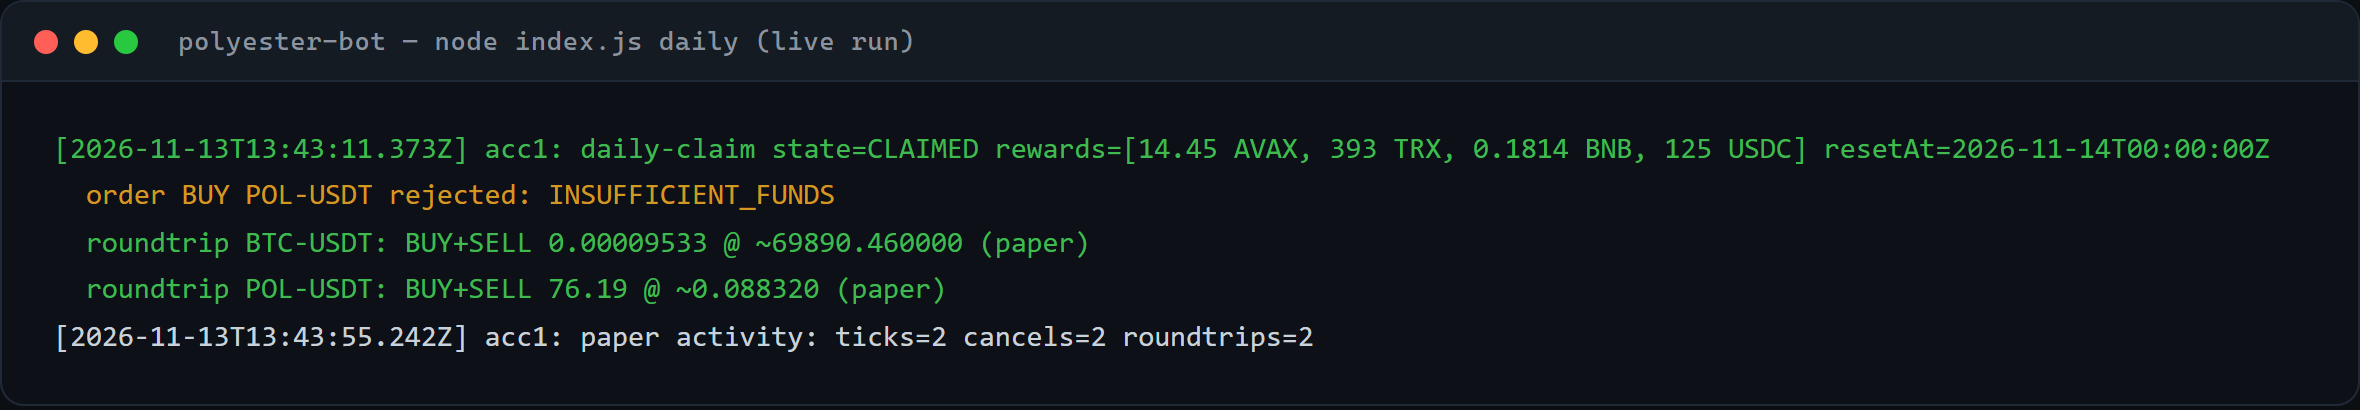
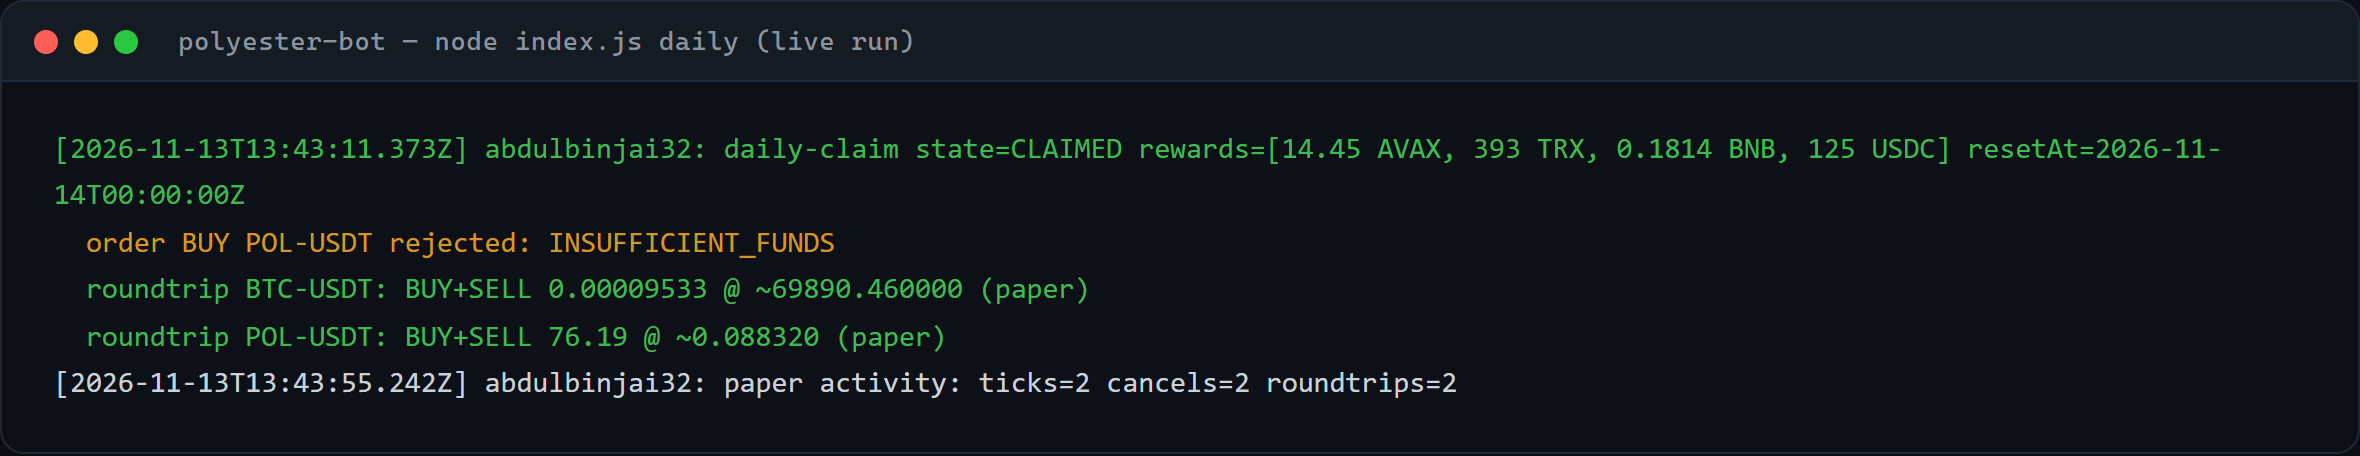
docs: showcase README polyester-bot v1.1.1 (README + screenshot saja)

diff --git a/README.md b/README.md
@@ -1,103 +1,153 @@
-# polyester-bot
+# Polyester Bot - Daily Paper Assets Claim
 
-Daily automation for **Polyester Testnet DEX** (https://testnet.polyester.com).
-Claims free **Paper Assets** for every account each day (00:00 UTC reset) and runs a
-small randomized paper-trading activity engine so account history looks organic —
-volume, trades, order counts and daily streaks are exactly what season checkpoints
-and potential retro rewards measure.
+**Versi:** 1.1.1 · **Harga:** Rp 80.000 (~$5) · **Kontak pembelian:** [@rmndkyl](https://t.me/rmndkyl)
 
-Pure signed HTTP API (Ed25519) — **no browser needed for the daily routine**.
+Bot automasi harian untuk **Polyester Testnet DEX** (https://testnet.polyester.com). Klaim **Paper Assets** tiap akun setiap hari (reset 00:00 UTC) + opsional aktivitas trading paper (pasang order lalu batalkan) supaya riwayat akun terlihat hidup untuk kepenting kompetisi & potensi airdrop retroaktif.
 
-## Features
+## Kebutuhan
 
-- Daily multi-account claim: `GET /v1/trading/daily-claim` → `POST .../claim`
-- Paper activity engine (v1.1), built into `daily`:
-  - Post-only limit ticks — resting buys below / sells above the book, cancelled a
-    few seconds later. Never execute, zero risk, build order/cancel history.
-  - Market IOC round trips — small BUY→SELL flips ($6–12) that produce real prints,
-    fees and volume for checkpoint metrics. Balance floor guard included.
-  - Auto-selects pairs the account can actually quote; sweeps leftover orders from
-    crashed runs; never touches orders you placed manually.
-- Humanization: shuffled account order, random 25–80s gaps, small daily skip chance
-- Retry + backoff on transport/5xx; auth errors are never hammered
-- Official Ed25519 signing spec (canonical string, RFC 3986 query normalization,
-  SHA-256 body hash) — zero external dependencies
-- Reports: `data/last-run.json` (machine) + `data/last-run.txt`
-- Offline signer selftest: `node index.js selftest`
+| Item | Detail |
+|---|---|
+| Runtime | Node.js 18+ |
+| Wallet | EVM / sesuai chain proyek (kamu sendiri) |
+| Proxy | tidak perlu |
+| Captcha | tidak perlu |
+| Akses | akun proyek yang kamu kelola sendiri |
 
-## Requirements
+## Pembayaran
 
-| Requirement          | Required | Notes                                                              |
-| -------------------- | -------- | ------------------------------------------------------------------ |
-| Node.js ≥ 22         | Yes      | no npm packages (0 dependencies)                                   |
-| Polyester account    | Yes      | register in Chrome (Google/email or wallet, gasless)               |
-| X **or** Discord     | Yes      | one must be linked in profile or claims fail                       |
-| Main-account API key | Yes      | `ak_...` id + 64-hex Ed25519 secret, created once in browser       |
-| Key policies         | Yes      | Daily Claims (read + claim) + Spot Trading                         |
-| Capital              | No       | testnet, paper assets, no gas                                      |
+E-Wallet: DANA / GoPay / ShopeePay · Bank: BCA / Seabank · Crypto: contact for wallet address.
+Pembeli menghubungi [@rmndkyl](https://t.me/rmndkyl), kirim bukti transfer, lalu terima license key.
 
-## Setup (one-time per account, ~3 min in the browser)
+---
 
-1. Open https://testnet.polyester.com in a normal Chrome window (Cloudflare check — just click).
-2. **Connect** → sign up with Google/email or a wallet → pick a username.
-3. In your profile, link **X** or **Discord** (either is enough).
-4. Go to https://testnet.polyester.com/account/api-keys → **New key** → *Generate in browser*.
-   Copy the **Key ID** (`ak_...`) and the **64-hex private key** (shown only once!).
-5. On the new key, attach policies: **Daily Claims (read + claim)** and **Spot Trading**.
-6. Copy `config.json.example` → `config.json`, fill in per account:
+Bot automasi harian untuk **Polyester Testnet DEX** (https://testnet.polyester.com).
+Klaim **Paper Assets** tiap akun setiap hari (reset 00:00 UTC) + opsional aktivitas
+trading paper (pasang order lalu batalkan) supaya riwayat akun terlihat hidup untuk
+kepenting kompetisi & potensi airdrop retroaktif.
+
+Murni HTTP API (Ed25519 signed request) — **tanpa browser untuk rutinitas harian**.
+
+## Fitur
+
+- Klaim harian multi-akun: `GET /v1/trading/daily-claim` → `POST .../claim` otomatis
+- **Aktivitas trading paper (v1.1)** — built-in di `daily`, untuk metrik checkpoint musim
+  (volume, trades, orders, streak) yang dipakai kompetisi & potensi retroaktif:
+  - Post-only limit ticks: order BUY di bawah / SELL di atas buku order → resting →
+    dibatalkan setelah beberapa detik (tidak pernah tereksekusi, jadi tidak ada risiko)
+  - Market IOC round-trip: BUY → tahan sebentar → SELL → menghasilkan riwayat trade + fee
+    nyata, ukuran kecil ($6-12 paper/acak), guard: saldo USDT di bawah floor = skip
+  - Auto-pilih pair yang saldonya cukup (tidak spam INSUFFICIENT_FUNDS), sweep order
+    sisa dari run yang crash (clientOrderId prefix `lyid-`), tidak pernah menyentuh
+    order buatan manual kamu
+- Humanisasi: urutan akun diacak, jeda acak 25–80 detik antar akun, peluang skip harian
+- Retry + backoff untuk error transport/5xx; error auth (401/403) tidak di-hammer
+- Tanda tangan request Ed25519 sesuai spesifikasi resmi (canonical string 5–6 baris,
+  normalisasi query RFC 3986, hash body SHA-256) — tanpa dependency eksternal
+- Laporan `data/last-run.json` (machine) + `data/last-run.txt` (kartu screenshot)
+- Selftest signer offline: `node index.js selftest`
+
+## Kebutuhan
+
+| Kebutuhan            | Wajib? | Keterangan                                                        |
+| -------------------- | ------ | ----------------------------------------------------------------- |
+| Node.js ≥ 22         | Ya     | Tidak ada package npm (0 dependency)                              |
+| Akun Polyester       | Ya     | Daftar via Chrome: Google/email atau wallet (gasless)             |
+| X **atau** Discord   | Ya     | Salah satu harus ditautkan di profil, kalau tidak → `SOCIAL_VERIFICATION_REQUIRED` |
+| API Key (Main Acct)  | Ya     | ID `ak_...` + private key 64 hex, dibuat sekali di browser        |
+| Policy pada key      | Ya     | `READ_DAILY_CLAIMS` + `CLAIM_DAILY_REWARD` + `TRADE_SPOT` ( utk aktivitas trading) |
+| Modal                | Tidak  | Testnet, paper assets, tanpa gas                                  |
+
+## Setup (sekali per akun, ±3 menit via browser)
+
+1. Buka https://testnet.polyester.com di Chrome biasa (ada Cloudflare check, klik saja).
+2. **Connect** → daftar pakai Google/email atau wallet → pilih username.
+3. Di profil, tautkan **X** atau **Discord** (salah satu cukup).
+4. Buka https://testnet.polyester.com/account/api-keys → **New key** → *Generate in browser*.
+   Salin **Key ID** (`ak_...`) dan **private key 64 hex** (muncul sekali!).
+5. Pada key baru: attach policy yang mengizinkan **Daily Claims (read + claim)** dan,
+   kalau mau pakai `--trade`, **Spot Trading** di pair `BTC-USDT`.
+6. Salin `config.json.example` → `config.json`, isi per akun:
 
 ```json
 {
   "label": "w1",
-  "keyId": "ak_XXXX",
-  "apiPrivateKey": "64-hex-secret-no-0x",
+  "keyId": "ak_actualid",
+  "apiPrivateKey": "64hex私钥tanpa0x",
   "subaccountId": ""
 }
 ```
 
-> Claims must go through a **Main Account key**. Subaccount-scoped keys are rejected.
-> Leave `subaccountId` empty to credit the root account.
+> Catatan: klaim hanya boleh lewat **Main Account key**. Key milik Subaccount ditolak.
+> `subaccountId` (opsional) = tujuan reward; kosong = akun root.
 
-## Usage
+## Cara pakai
 
 ```
-node index.js status      today's claim state for every account
-node index.js daily       daily claim + paper activity (humanized)
-node index.js trade       paper activity only (no claims)
-node index.js selftest    offline signer validation
-DRY_RUN=1 node index.js daily   status only, never POSTs the claim
+node index.js status            cek state klaim hari ini semua akun
+node index.js daily             klaim harian + aktivitas paper (humanized)
+node index.js trade             hanya aktivitas trading paper (tanpa klaim)
+node index.js selftest          validasi signer offline
+DRY_RUN=1 node index.js daily   cek status saja, tidak POST claim
 ```
 
-Schedule daily after 07:00 UTC+7 (reset is 00:00 UTC). Randomize the minute
-(07:10–08:30 works well). To disable trading activity and keep claims only, set
-`trade.enabled = false` in config.
+Untuk mematikan aktivitas trading (klaim saja): set `trade.enabled` = `false` di config.
 
-## Screenshots
+Jadwalkan harian **setelah 07:00 WIB** (reset 00:00 UTC = 07:00 pagi WIB).
+Disarankan acak menit, misalnya 07:10–08:30 WIB.
 
-Real output from a live account (13 Nov 2026) — not mockups. The account label is
-masked to `acc1` in this public repo; the unmasked copies live in the private repo.
+## Bukti jalan (screenshot)
 
-Live claim state (HTTP 200, today's rewards already credited):
+Diambil dari run nyata akun utama (13 Nov 2026), bukan mockup. Label akun utuh
+di repo private ini; versi publik di-mask jadi `acc1`.
+
+Status live (HTTP 200, reward hari ini sudah masuk):
 
 ![status](docs/screenshots/status.png)
 
-Daily run: claim state, balance guard, paper round trips:
+Run harian: state klaim + guard saldo + round-trip paper:
 
 ![run](docs/screenshots/run.png)
 
-Run history read straight from `data/last-run.json` (includes `claimId` of successful claims):
+Riwayat run (dibaca dari `data/last-run.json`, termasuk `claimId` klaim sukses):
 
 ![history](docs/screenshots/history.png)
 
-Ed25519 signer selftest (offline, no network):
+Selftest signer Ed25519 (offline, tanpa network):
 
 ![selftest](docs/screenshots/selftest.png)
 
-## Security notes
+## Struktur
 
-- `config.json` (key id + secret) is gitignored — never share the private key.
-- These keys cannot withdraw funds (no withdraw policy) — claim + paper trading only.
-- Testnet risk profile: paper assets have no value; the only thing at stake is your
-  competition positioning.
+```
+index.js            CLI entry (status | daily | trade | selftest)
+src/sign.js         canonical string + Ed25519 signing (sesuai docs resmi)
+src/api.js          HTTP client bertanda tangan, retry/backoff
+src/daily.js        loop harian multi-akun + humanisasi
+src/trade.js        mesin aktivitas paper v1.1 (post-only ticks + IOC round trips)
+src/config.js       loader config (fallback ke .example)
+config.json         kredensial ANDA (tidak di-commit)
+data/last-run.*     laporan run terakhir
+tools/probe.js      uji konektivitas API (signed 401 = origin hidup)
+```
 
-Built by LYID — https://github.com/layerairdrop
+## Troubleshooting
+
+| Gejala                                   | Sebab & solusi                                                            |
+| ---------------------------------------- | ------------------------------------------------------------------------- |
+| `AUTH_SIGNATURE_INVALID` (401)           | Private key salah/sudah dirotasi. regenerate key & update config.         |
+| `AUTH_API_KEY_ACCESS_DENIED`             | Key kurang policy daily-claim, atau key Subaccount → buat Main Acct key.  |
+| `SOCIAL_VERIFICATION_REQUIRED`           | Akun belum menautkan X/Discord → tautkan di profil, sekali saja.          |
+| `TIMESTAMP_SKEW`                         | Jam PC meleset >1 detik. sinkronkan waktu Windows (sync now).             |
+| HTTP 403 tanpa JSON / "Just a moment"     | Terkena Cloudflare page (biasanya sementara). Bot retry; cek `tools/probe.js`. |
+| state `UNAVAILABLE` terus                | Campaign reward hari itu belum aktif — normal, coba besok.                |
+| state `PAYOUT_DELAYED`                   | Payout tertunda di sisi proyek; claim tercatat, dibayar otomatis.         |
+| Banyak akun 1 IP                         | Rate login (AUTH_PUBLIC) dibagi per IP, tapi daily-claim harian ringan — aman. |
+
+## Keamanan
+
+- `config.json` (key ID + secret) di-gitignore; jangan pernah share private key.
+- Key ini **tidak** bisa menarik dana (tidak ada withdraw policy) — khusus klaim/trade paper.
+- Risk testnet: aset paper tidak bernilai; yang dipertaruhkan hanya posisi akun utk kompetisi.
+
+Dibangun oleh LYID — https://github.com/layerairdrop
